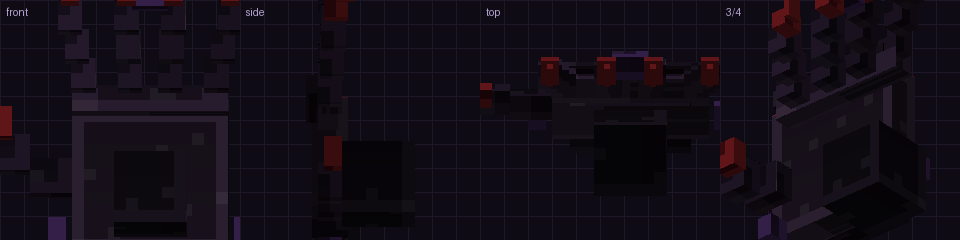
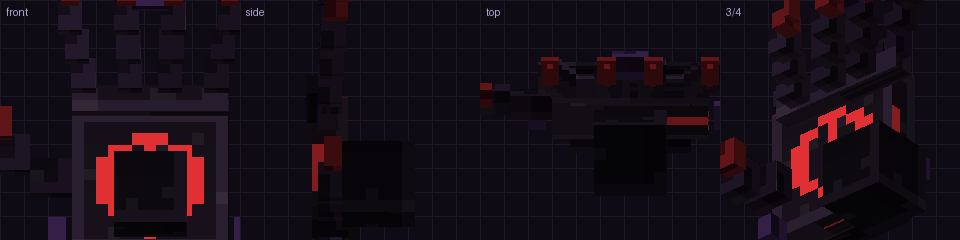
fix(黑夜之手贴图): 在掌心上画一个临时记号(血红封印: 环+三道掌纹), 手背留空 —— 前两次只靠调亮度(23 vs 5)在 13x12 的近黑小块上肉眼分不出来, 作者打开 Blockbench 只会觉得没变; 现在掌心最亮像素 82 / 手背 17.6 且图案一眼可辨; 文件其实早就是新的(掌/背 UV 已分开), 这一刀是让它看得见; 临时记号, 作者覆盖即可

diff --git a/tools/gen_dark_hand_model.py b/tools/gen_dark_hand_model.py
@@ -435,6 +435,31 @@ def build_texture():
     for j in range(h):
         px[x + w // 2, y + j] = (ridge[0], ridge[1], ridge[2], 255)
 
+    # ------------------------------------------------------------------
+    #  ★★ 2026-10-10 第四刀：**在掌心上画一个显眼的记号** ✓
+    #
+    #  作者的原话是「这个没变啊你在干嘛」✗ —— 而文件其实**已经是新的**了
+    #  （掌/背两块 UV 确实分开了、亮度差 4.4 倍），问题在于：
+    #    · 形状**故意没变**（一个方块都没加 ✗）⇒ 3D 视图里轮廓完全一样；
+    #    · 两块又都是近黑色，差别只是"亮度 23 vs 5" ✗ —— 掌心那块只有 13x12 像素、
+    #      在 Blockbench 默认视角下就指甲盖大 ⇒ **看不出来是正常的** ✓。
+    #  ⇒ 光靠调色永远说不清"哪面是掌心"，干脆**画一个记号**：
+    #      掌心 = 一枚血红的"封印"（一个环 ＋ 三道掌纹），**手背留空** ✓
+    #    这样在 Blockbench 里转一圈、或者在游戏里放一次，都是**一眼**的事 ✓。
+    #    ⚠ 这是**临时记号**，不是最终美术 ✗ —— 作者随后会把自己的画整块覆盖上去 ✓；
+    #      而且它用的颜色（血红 0xB02226）就是整张图最亮的一档 ⇒ 无论世界多黑都看得见 ✓。
+    # ------------------------------------------------------------------
+    from PIL import ImageDraw
+    (px0, py0, pw, ph), *_ = ATLAS["palm"]
+    seal = (214, 46, 50)
+    draw = ImageDraw.Draw(img)
+    cx = px0 + pw // 2
+    cy = py0 + ph // 2
+    draw.ellipse([px0 + 2, py0 + 2, px0 + pw - 3, py0 + ph - 3], outline=seal)
+    for dx in (-3, 0, 3):                      # 三道"掌纹"
+        draw.line([cx + dx, cy - 3, cx + dx, cy + 2], fill=seal)
+    draw.point((cx, py0 + 1), fill=seal)       # 顶端一点，方向感 ✓
+
     return img
 
 
